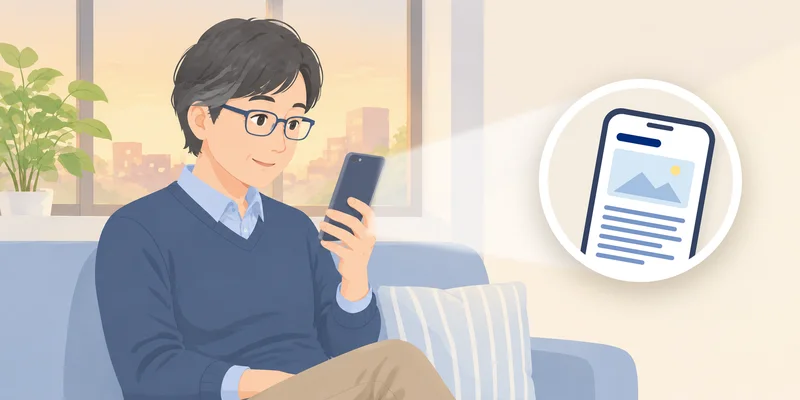
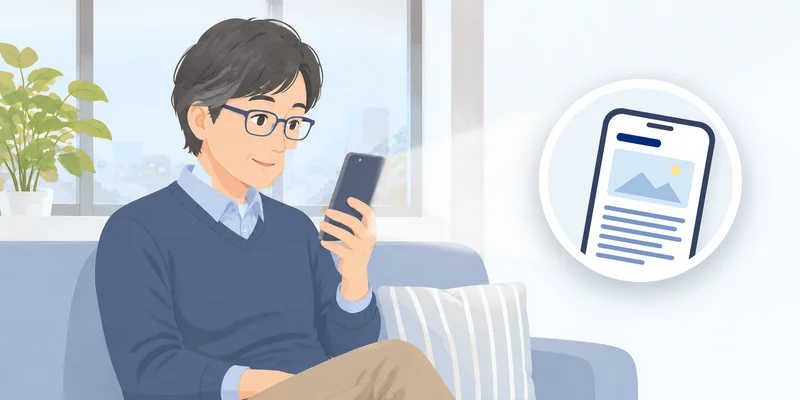
アシストレンズのイラスト: 夕焼けのオレンジ・クリームを白と水色に(ほかの3枚と色をそろえる・肌とズボンはそのまま)

diff --git a/wp-deploy/page-lp-soudan.php b/wp-deploy/page-lp-soudan.php
@@ -1708,7 +1708,7 @@ $lp_assets = get_stylesheet_directory_uri() . '/lp/assets/soudan/img';
       </div>
       <div class="lens-detail" data-lens="assist" hidden>
         <div class="lens-detail-head">
-          <img class="lens-detail-illust" src="<?php echo $lp_assets; ?>/soudan_lens-assist_800_400.webp?v=16f17c58" width="800" height="400" alt="">
+          <img class="lens-detail-illust" src="<?php echo $lp_assets; ?>/soudan_lens-assist_800_400.webp?v=cf3e8386" width="800" height="400" alt="">
           <p class="lens-detail-catch">手元を少し楽に</p>
           <h3 class="lens-detail-name">アシストレンズ</h3>
         </div>
